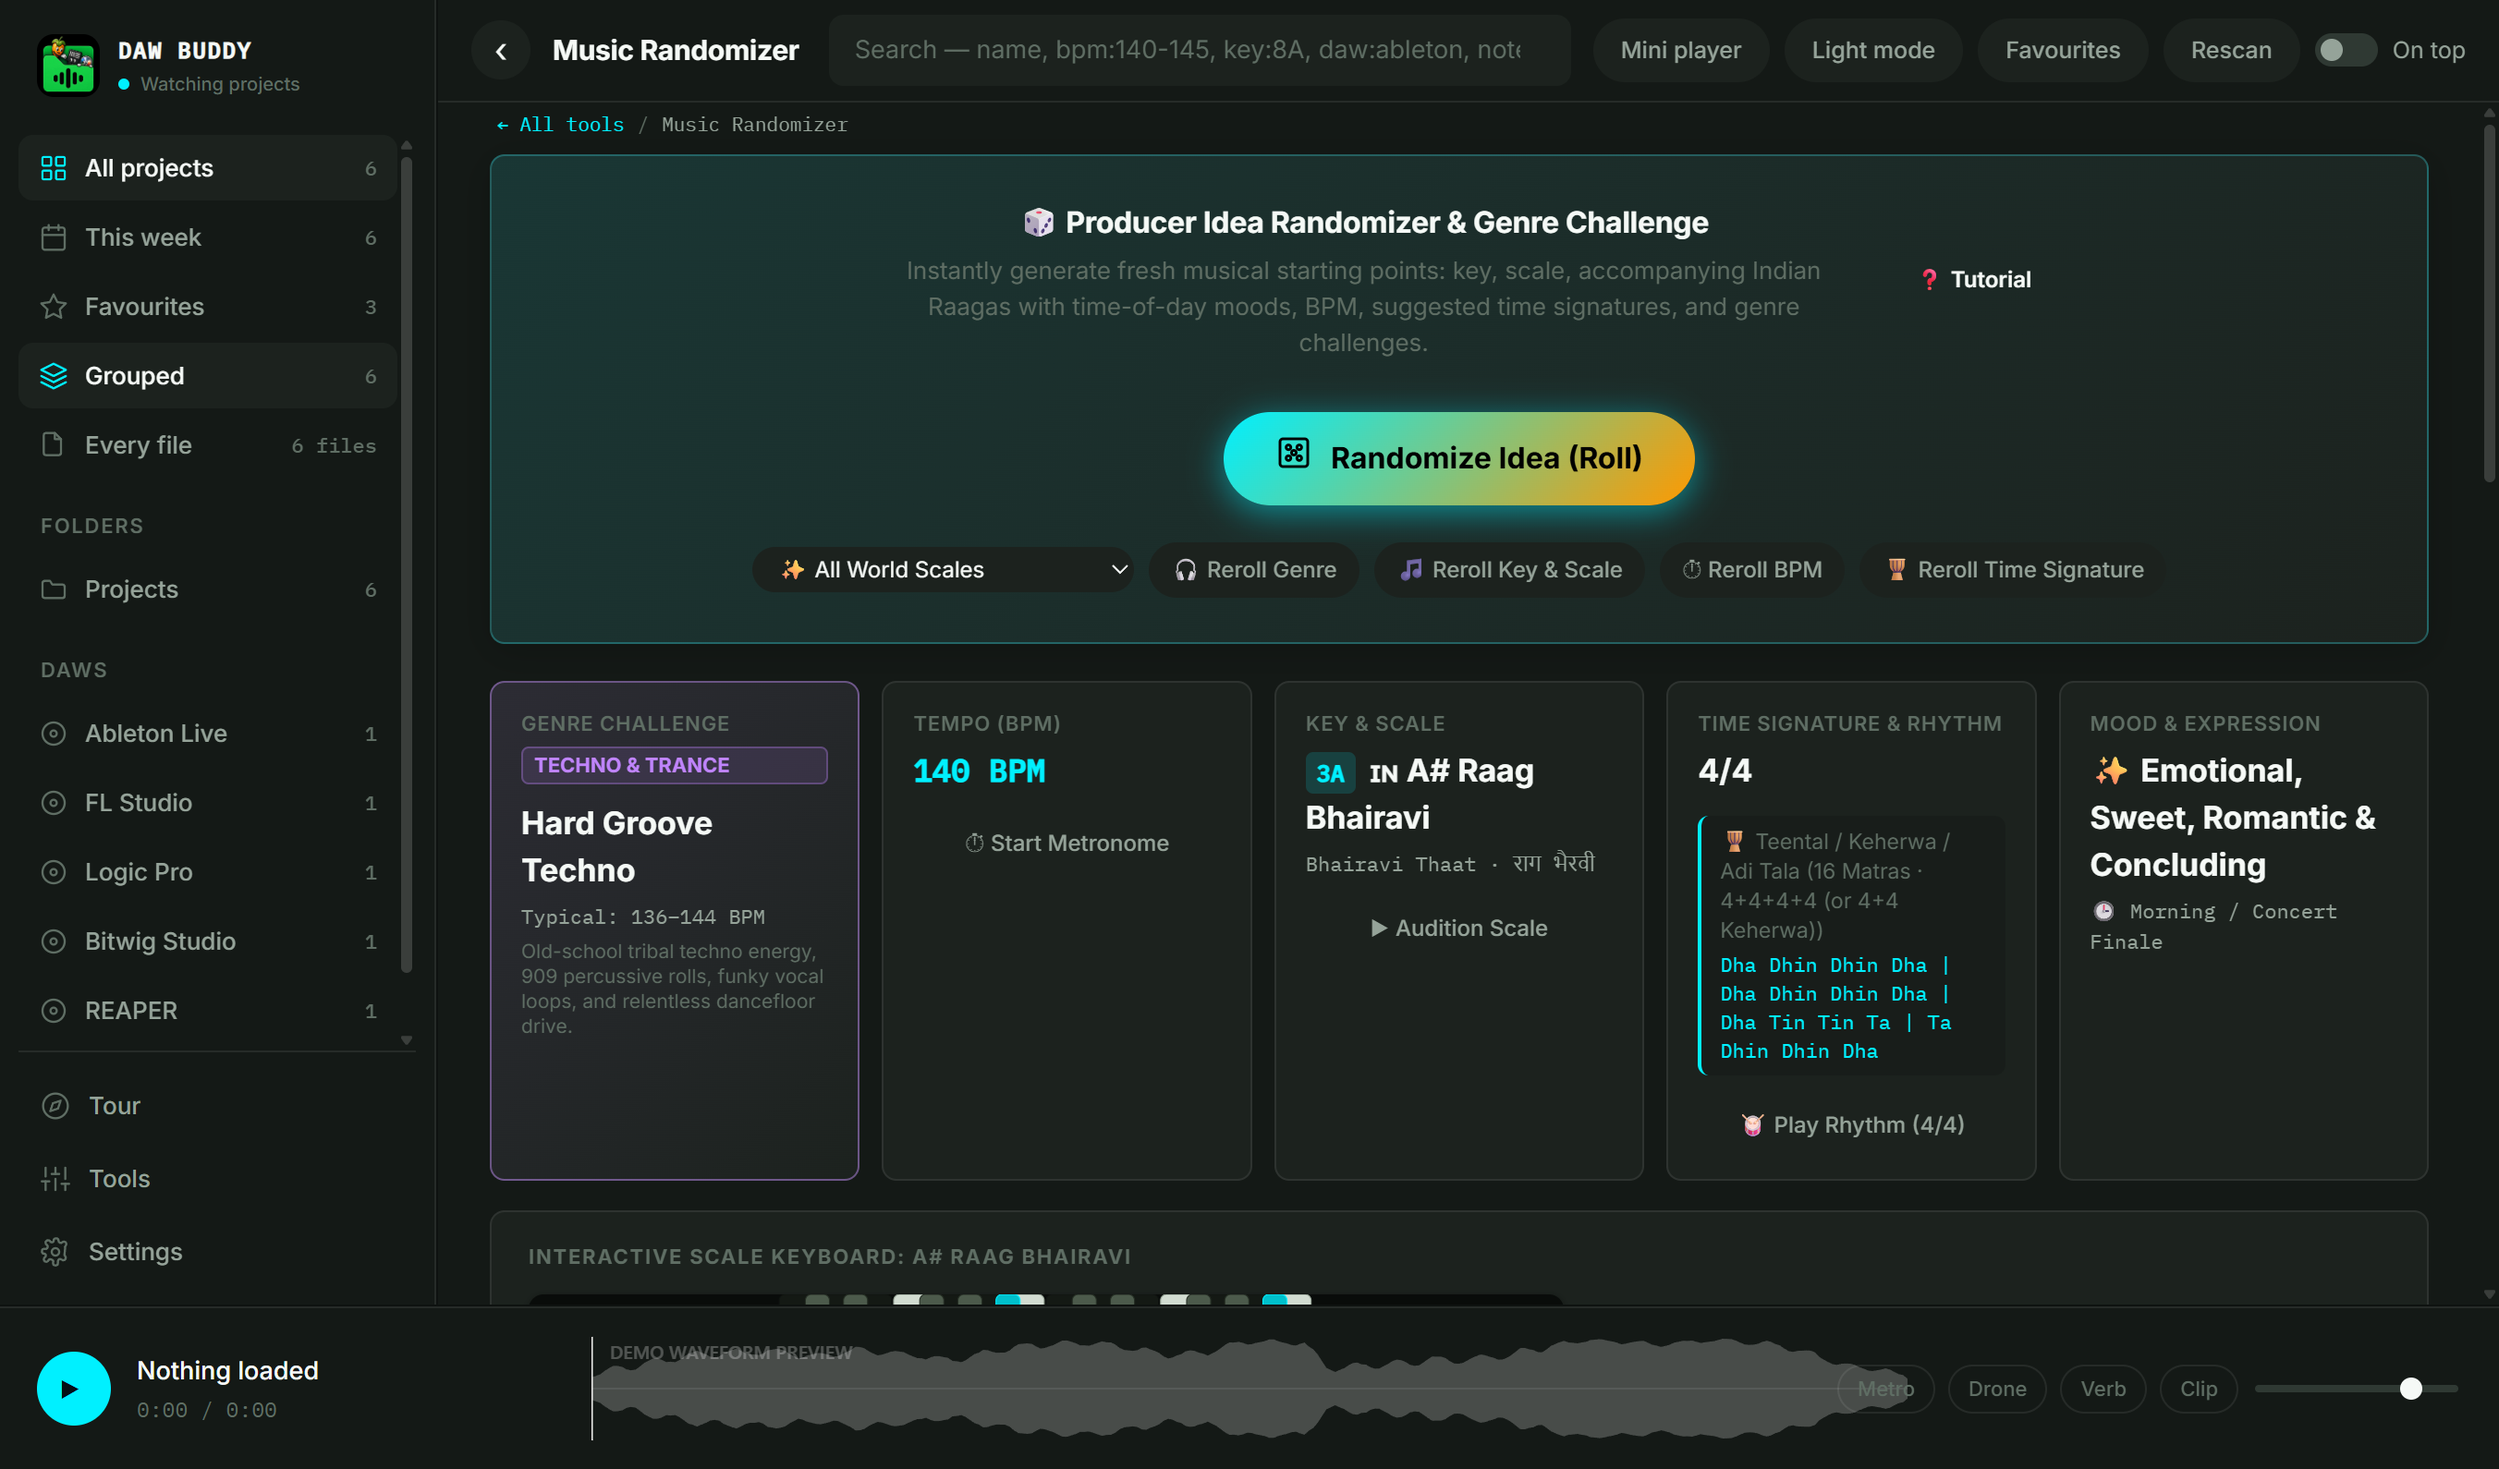
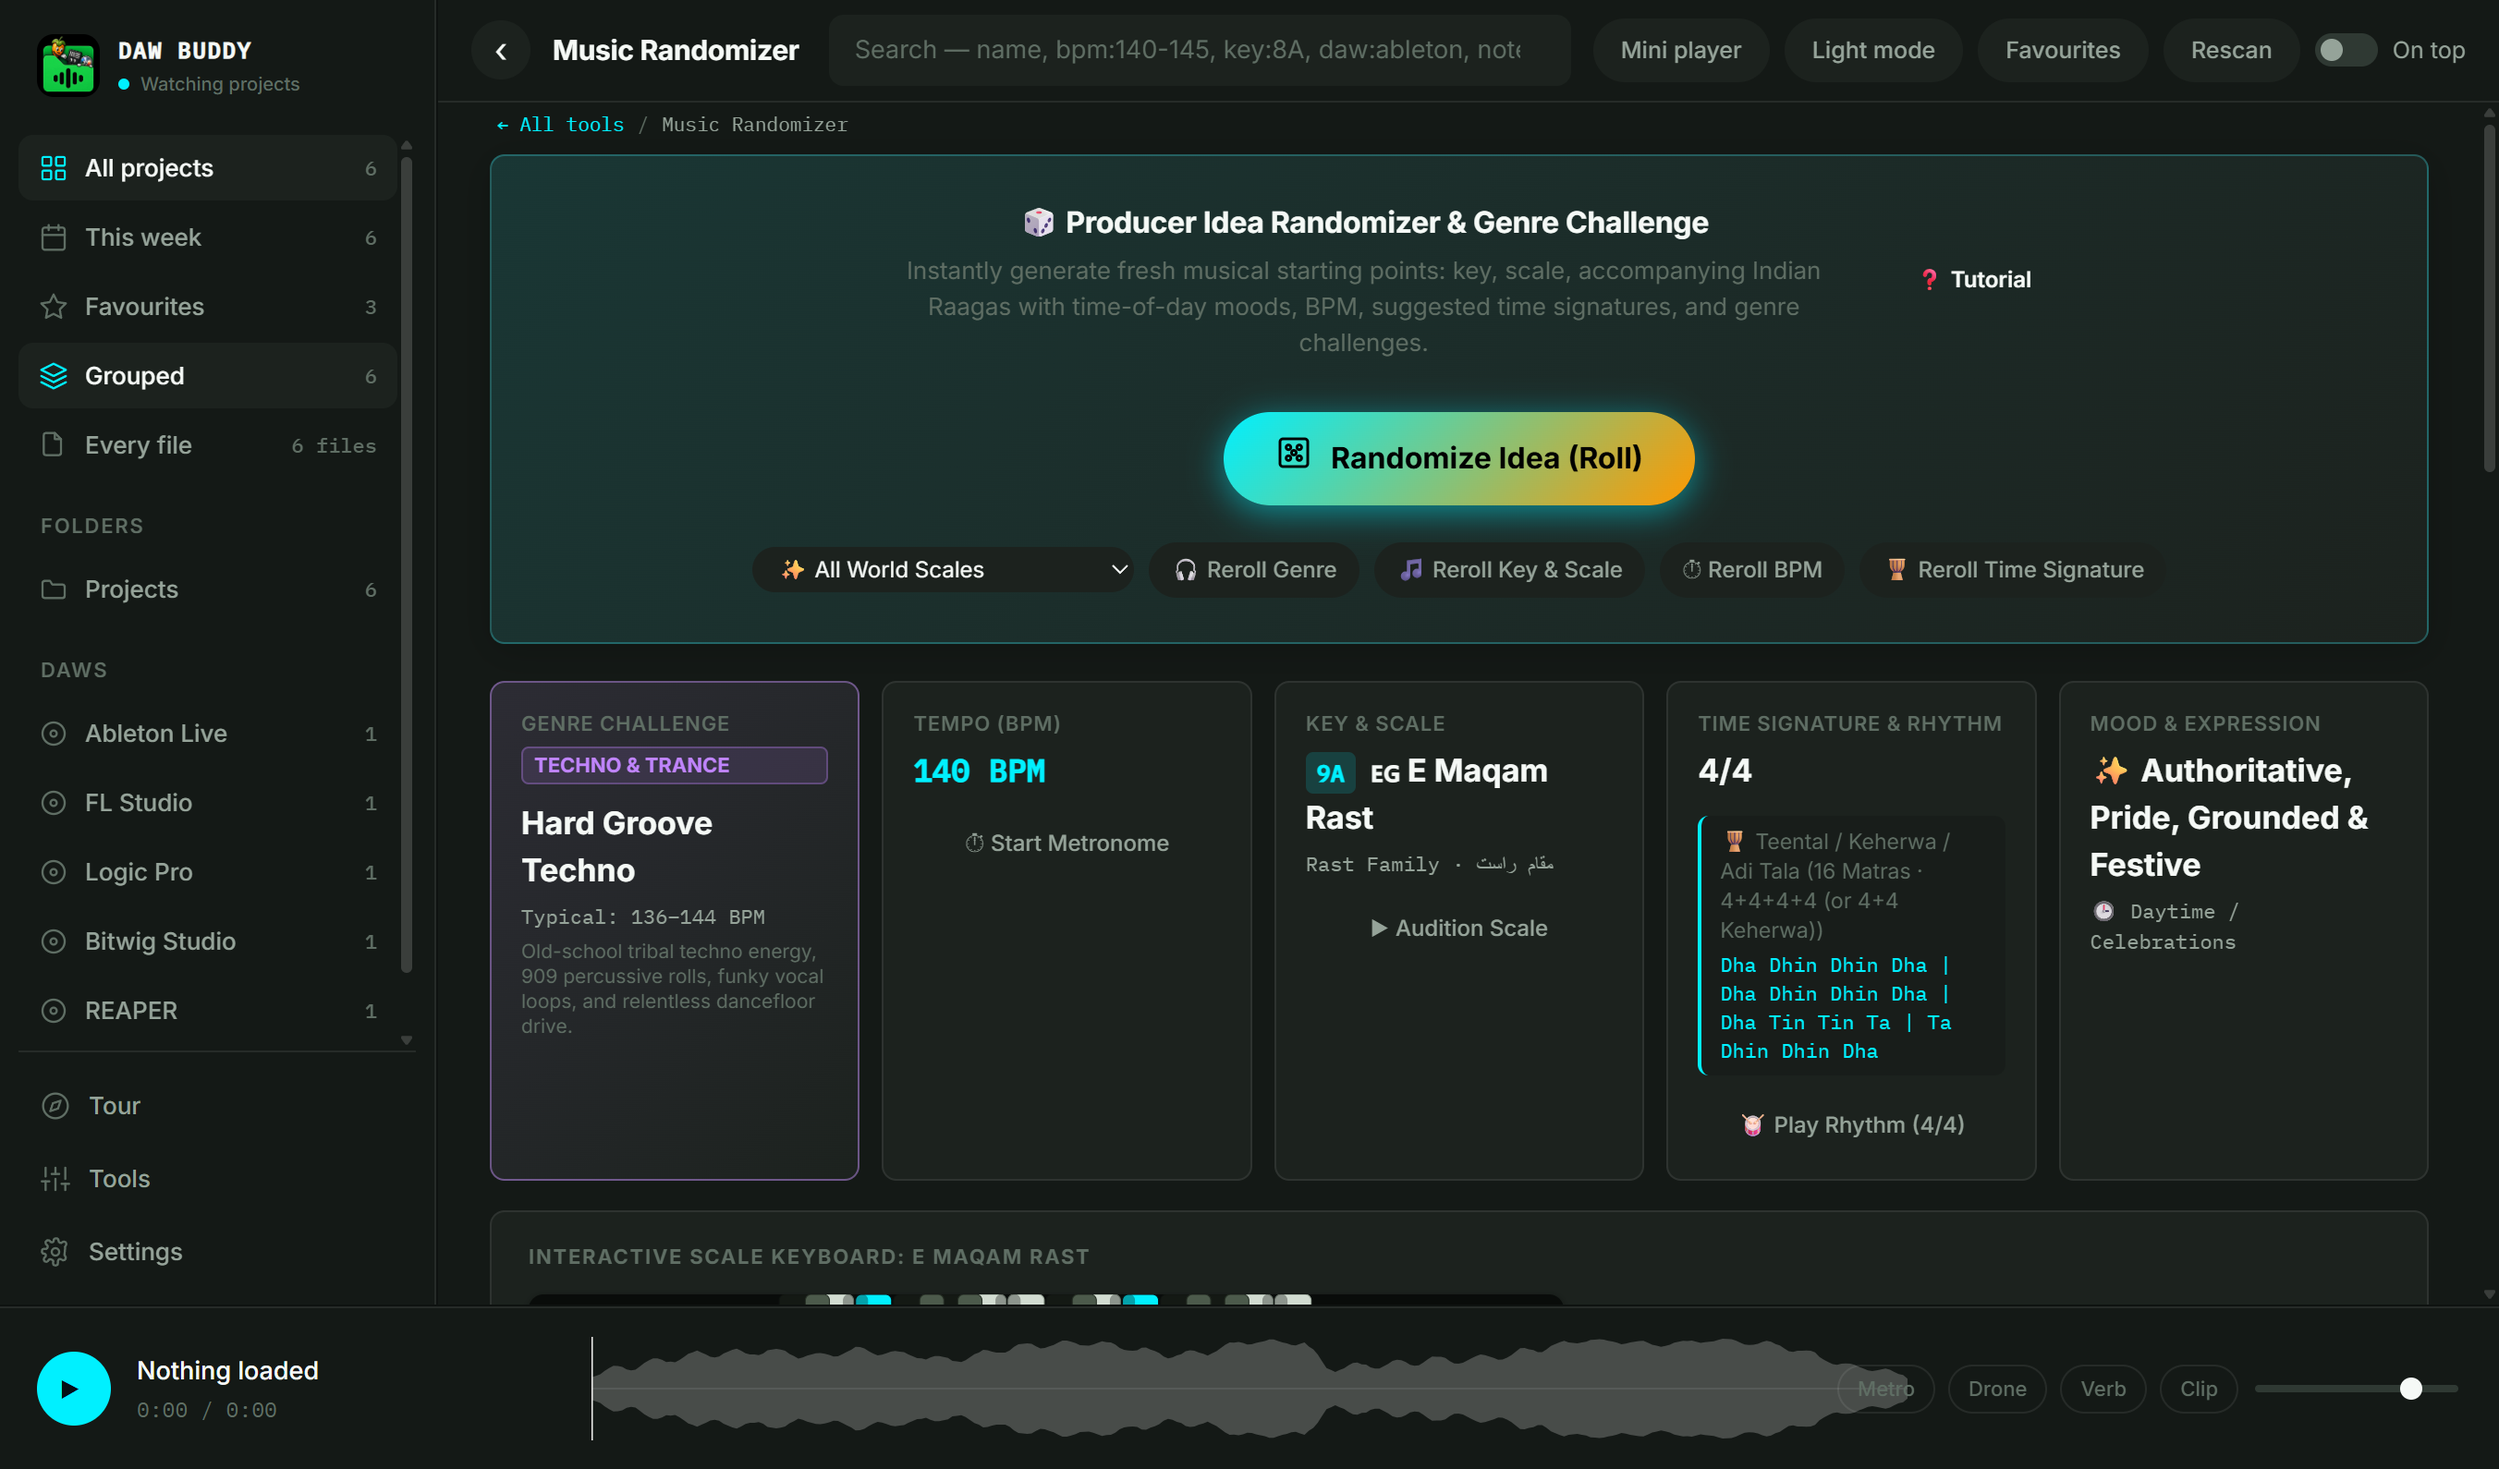
feat(settings): add update checker and version display, remove demo waveform text, fix onboarding popup

diff --git a/src/renderer/app.ts b/src/renderer/app.ts
@@ -360,25 +360,36 @@ async function boot() {
   applySettings();
   await refresh();
 
-  // If user hasn't configured region & world scales yet, display the interactive 3D Globe wizard!
-  if (!settings.regionSetupComplete) {
-    setTimeout(() => {
-      showRegionOnboardingModal({
-        currentRegion: settings.region || 'indian',
-        currentTraditions: settings.scaleTraditions || ['all'],
-        isUpdateOrSettings: false,
-        onSave: async (result) => {
-          settings = await window.api.updateSettings({
-            region: result.region,
-            scaleTraditions: result.scaleTraditions,
-            regionSetupComplete: true
-          });
-          applySettings();
-          render();
-        },
-        playSynthNote: (pc, oct, a4) => playSynthNote(pc, oct, a4 || 440)
-      });
-    }, 450);
+  // If user hasn't configured region & world scales yet, display the interactive 3D Globe wizard on first run or after update!
+  const APP_VERSION = '0.4.2-beta.1';
+  const seenSetupVersion = localStorage.getItem('dawBuddyRegionSetupVersion');
+  const isSetupDone = Boolean(settings.regionSetupComplete) || localStorage.getItem('dawBuddyRegionSetupComplete') === 'true';
+
+  if (!isSetupDone || seenSetupVersion !== APP_VERSION) {
+    if (isSetupDone && seenSetupVersion !== APP_VERSION) {
+      localStorage.setItem('dawBuddyRegionSetupVersion', APP_VERSION);
+    } else {
+      localStorage.setItem('dawBuddyRegionSetupVersion', APP_VERSION);
+      setTimeout(() => {
+        showRegionOnboardingModal({
+          currentRegion: settings.region || 'indian',
+          currentTraditions: settings.scaleTraditions || ['all'],
+          isUpdateOrSettings: false,
+          onSave: async (result) => {
+            localStorage.setItem('dawBuddyRegionSetupComplete', 'true');
+            localStorage.setItem('dawBuddyRegionSetupVersion', APP_VERSION);
+            settings = await window.api.updateSettings({
+              region: result.region,
+              scaleTraditions: result.scaleTraditions,
+              regionSetupComplete: true
+            });
+            applySettings();
+            render();
+          },
+          playSynthNote: (pc, oct, a4) => playSynthNote(pc, oct, a4 || 440)
+        });
+      }, 450);
+    }
   } else {
     // Auto-launch walkthrough on first start or after version updates
     setTimeout(() => {
@@ -6881,6 +6892,13 @@ $('openDataDir').addEventListener('click', () => window.api.reveal(settings.data
 $('openSettings').addEventListener('click', openSheet);
 $('closeSettings').addEventListener('click', closeSheet);
 scrimEl.addEventListener('click', closeSheet);
+
+const checkUpdatesBtn = $('checkUpdatesBtn');
+if (checkUpdatesBtn) {
+  checkUpdatesBtn.addEventListener('click', () => {
+    window.api.openExternal('https://github.com/hrdsht/daw_buddy/releases');
+  });
+}
 
 const openRegionGlobeBtn = $('openRegionGlobeSetup');
 if (openRegionGlobeBtn) {

diff --git a/src/renderer/tour.ts b/src/renderer/tour.ts
@@ -40,7 +40,7 @@ export const TOUR_STEPS: TourStep[] = [
     target: '.player',
     title: 'Real-time Transport & Waveform',
     description:
-      'Scrub interactive audio waveforms, audition with custom Reverb, engage root-note Drone synths, and monitor with safety soft clipping. When no audio is loaded, DAW Buddy displays an interactive Demo Waveform Preview.',
+      'Scrub interactive audio waveforms, audition with custom Reverb, engage root-note Drone synths, and monitor with safety soft clipping.',
     position: 'top'
   },
   {
@@ -113,7 +113,7 @@ export const PROJECT_TOUR_STEPS: TourStep[] = [
     target: '.player',
     title: 'Real-Time Audio Player & Space Reverb',
     description:
-      'Audition mixdowns without launching heavy DAW software. Scrub the interactive waveform, adjust listening volume, or engage the space reverb simulator. Displays an interactive Demo Waveform Preview until an audio render is played.',
+      'Audition mixdowns without launching heavy DAW software. Scrub the interactive waveform, adjust listening volume, or engage the space reverb simulator.',
     position: 'top'
   }
 ];

diff --git a/src/renderer/onboarding.ts b/src/renderer/onboarding.ts
@@ -59,17 +59,17 @@ export function showRegionOnboardingModal(options: {
     : 'Welcome to DAW Buddy — Choose Your Tradition';
   titleRow.append(title);
 
-  if (options.isUpdateOrSettings) {
-    const closeBtn = document.createElement('button');
-    closeBtn.className = 'onboarding-header__close-btn';
-    closeBtn.innerHTML = '✕';
-    closeBtn.title = 'Close';
-    closeBtn.addEventListener('click', () => {
-      globe.destroy();
-      overlay.remove();
-    });
-    titleRow.append(closeBtn);
-  }
+  const closeBtn = document.createElement('button');
+  closeBtn.className = 'onboarding-header__close-btn';
+  closeBtn.innerHTML = '✕';
+  closeBtn.title = 'Close';
+  closeBtn.addEventListener('click', () => {
+    localStorage.setItem('dawBuddyRegionSetupComplete', 'true');
+    localStorage.setItem('dawBuddyRegionSetupVersion', '0.4.2-beta.1');
+    globe.destroy();
+    overlay.remove();
+  });
+  titleRow.append(closeBtn);
 
   const subtitle = document.createElement('p');
   subtitle.className = 'onboarding-header__subtitle';

diff --git a/src/renderer/index.html b/src/renderer/index.html
@@ -346,6 +346,16 @@
       </section>
 
       <section class="field">
+        <h3>Version &amp; Updates</h3>
+        <p class="muted">
+          Installed Version: <b id="appVersionDisplay" style="color: var(--amber);">v0.4.2-beta.1</b>
+        </p>
+        <button id="checkUpdatesBtn" class="pill pill--solid" type="button">
+          🔍 Check for Updates (GitHub)
+        </button>
+      </section>
+
+      <section class="field">
         <h3>Where your data is stored</h3>
         <div id="dataDir" class="mono-box"></div>
         <button id="openDataDir" class="pill">Show in folder</button>

diff --git a/src/renderer/player.ts b/src/renderer/player.ts
@@ -780,15 +780,6 @@ const Player = (() => {
     ctx.moveTo(playedX, 2);
     ctx.lineTo(playedX, height - 2);
     ctx.stroke();
-
-    // Subtle Demo Waveform watermark label when idle/onboarding
-    if (!current) {
-      ctx.save();
-      ctx.font = '500 10px -apple-system, BlinkMacSystemFont, "Segoe UI", Roboto, sans-serif';
-      ctx.fillStyle = isLight ? 'rgba(0, 0, 0, 0.35)' : 'rgba(255, 255, 255, 0.26)';
-      ctx.fillText('DEMO WAVEFORM PREVIEW', 10, 14);
-      ctx.restore();
-    }
   }
 
   let cachedAmberHex = '';
